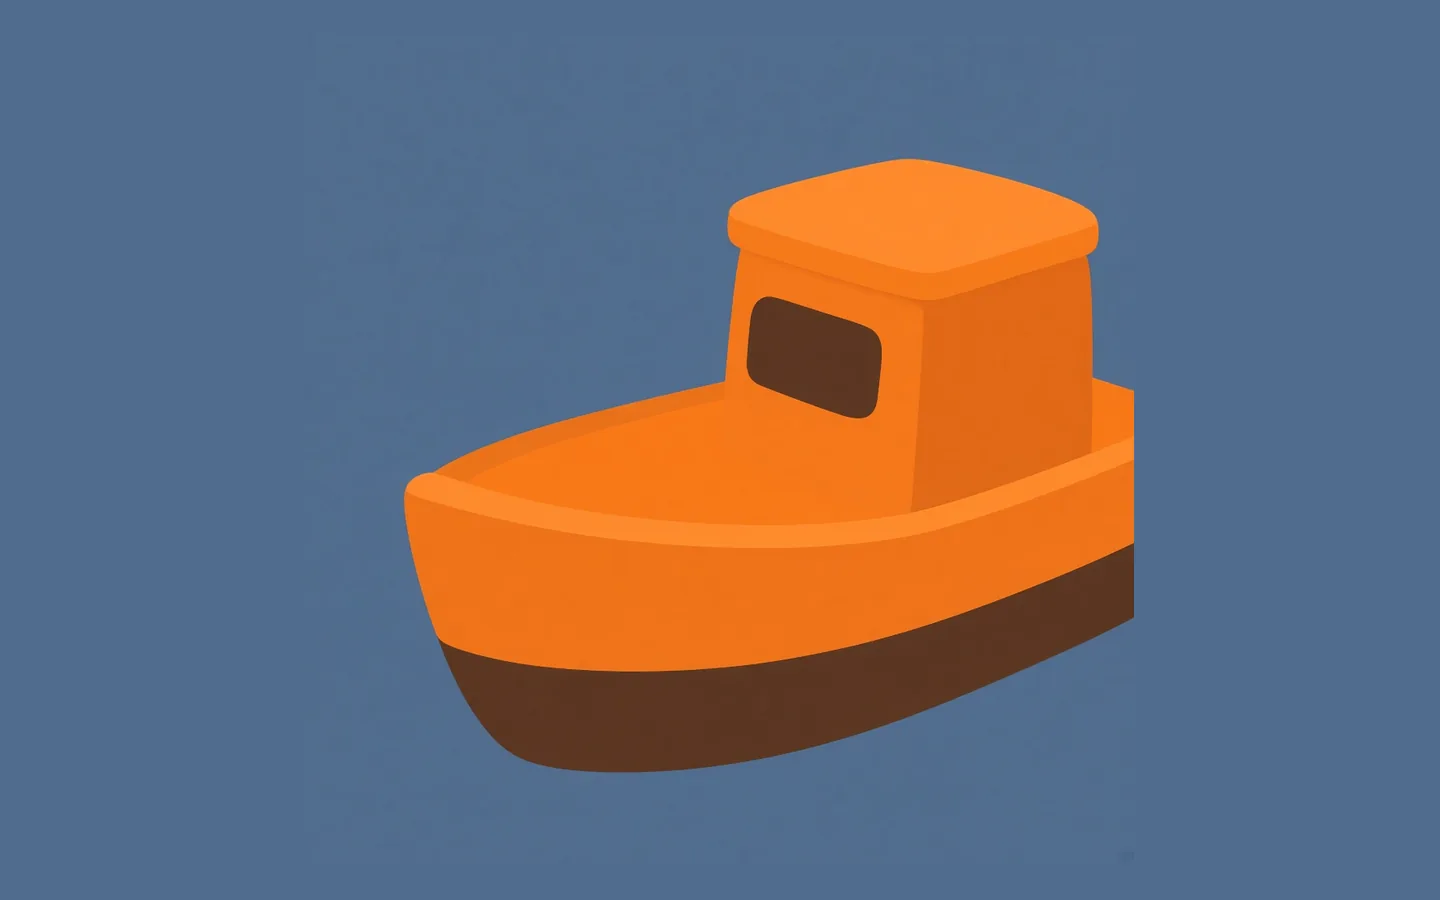
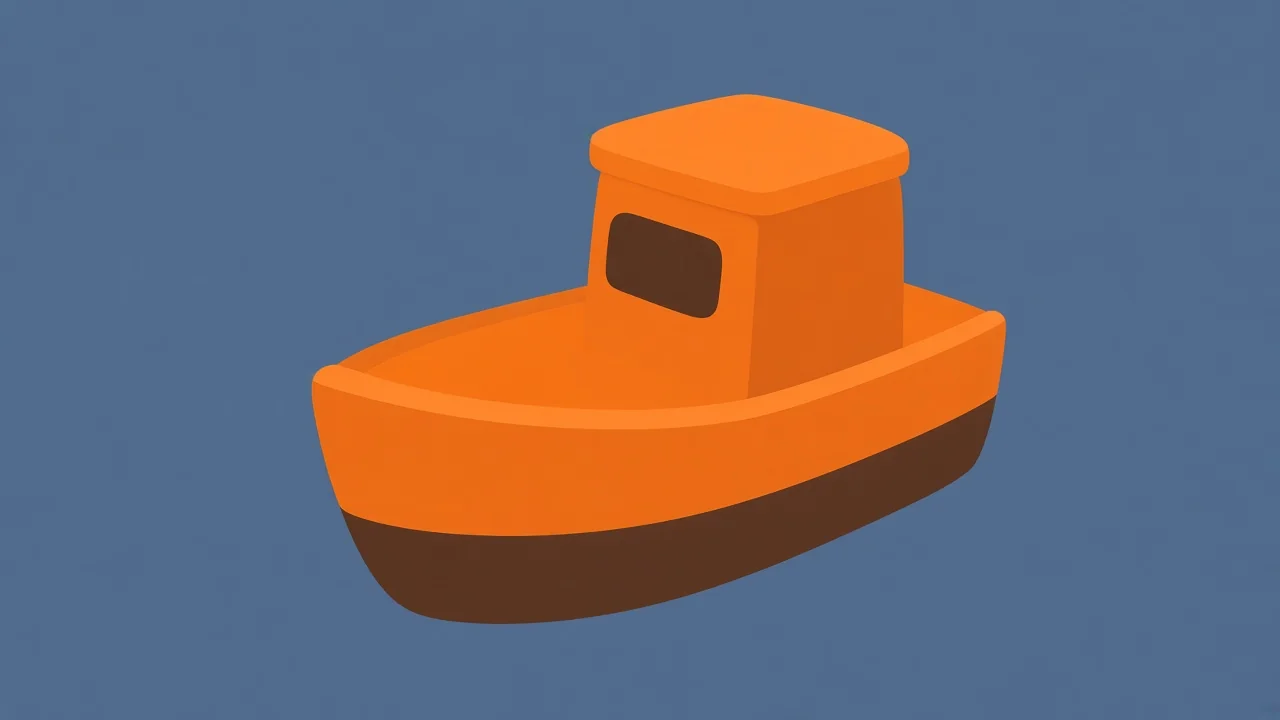
Refresh Ferry card media and tags
New landscape WebP keeps the full boat in frame. Drop Claude Code from
Ferry tags. Put GCP first on the YEP experience tags.

Changed region(s): [[0.2188, 0.1222, 0.8125, 0.8861]]

diff --git a/src/data.js b/src/data.js
@@ -82,7 +82,7 @@ export const experiencesData = [
     period: "May 2026 - Aug 2026",
     location: "Toronto, ON",
     description: "Scaling core architectures and LMS.",
-    tags: ["TypeScript", "tRPC", "PostgreSQL", "Redis", "Docker", "Playwright", "Sentry", "CI/CD", "GCP"],
+    tags: ["GCP", "TypeScript", "tRPC", "PostgreSQL", "Redis", "Docker", "Playwright", "Sentry", "CI/CD"],
     image: `${base}assets/experience-imgs/yep-logo.jpg`,
     imgWidth: 607,
     imgHeight: 606
@@ -114,10 +114,10 @@ export const projectsData = [
     id: "ferry",
     title: "Ferry",
     description: "CLI that moves a Claude Code session from one computer to another. It preserves the exact agent state: thinking blocks, tool calls, attachments, and subagents, things that /compact erases. 1st place at the 8090 x Highline Beta Hackathon.",
-    tags: ["Go", "Claude Code", "Homebrew"],
+    tags: ["Go", "Homebrew"],
     image: `${base}assets/project-imgs/ferry.webp`,
-    imgWidth: 1440,
-    imgHeight: 900,
+    imgWidth: 1280,
+    imgHeight: 720,
     githubLink: "https://github.com/lindsay-cheng/ferry"
   },
   {
